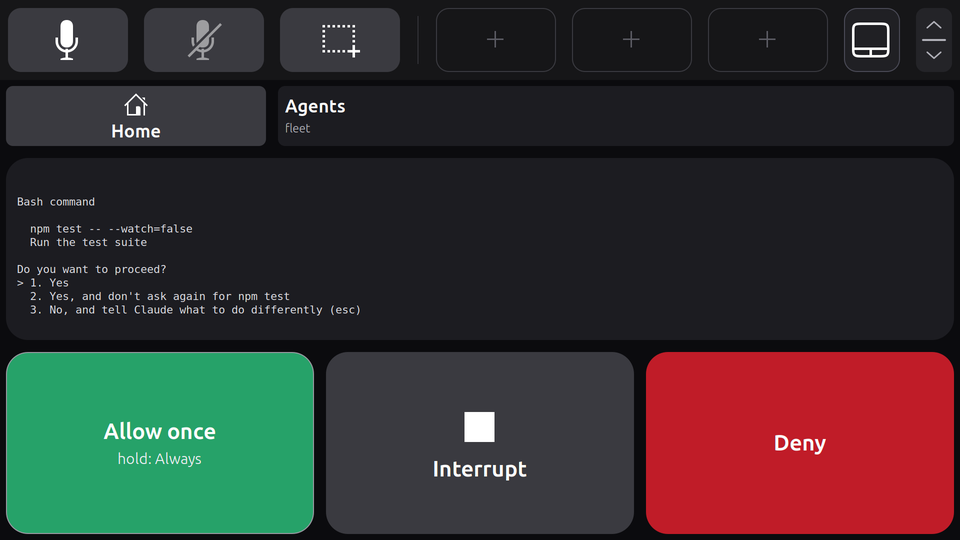
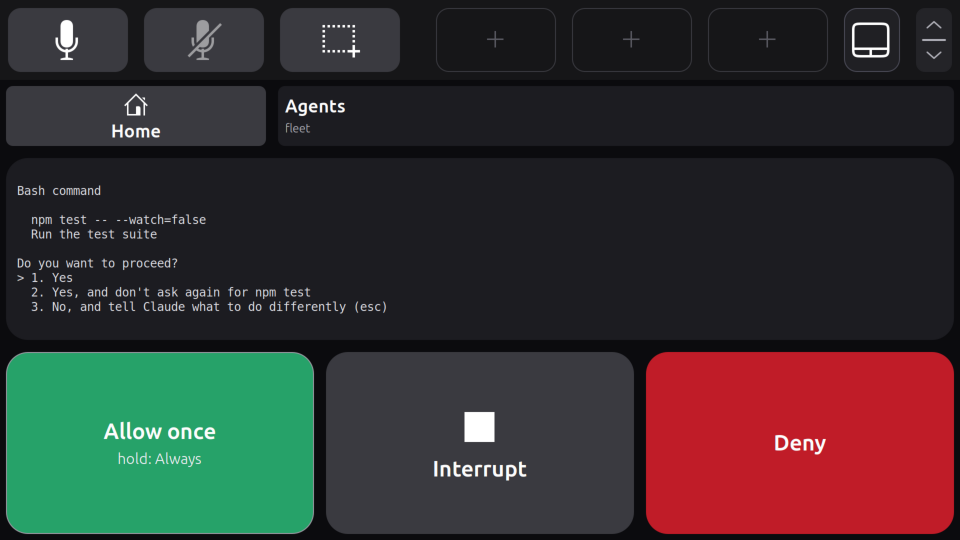
docs(touchbar): screenshots without the divider, items on the apps page
Rendered by the extension in a headless GNOME Shell 50.1 from the daemon's
own scenes: the bar no longer draws a line between two groups of spots,
and the apps page lists two [[apps]] items before the apps' pages.

For the PR description - the current user config's equivalent in the new
format. ~/.config/screenpad/touchbar.toml today holds Push to talk (hold
alt+k), the Agents and Calls tiles from screenpad-agents, then the
Bitwarden and Settings shortcuts (height 184). Its items are, in order:

    height = 184

    [[bar]]
    icon = "audio-input-microphone-symbolic"
    label = "Push to talk"
    mode = "hold"
    key = "alt+k"

    [[bar]]
    icon = "utilities-terminal-symbolic"
    label = "Agents"
    tile = "agents"

    [[bar]]
    icon = "dialog-question-symbolic"
    label = "Calls"
    tile = "calls"

    [[bar]]
    app = "bitwarden.desktop"

    [[bar]]
    app = "org.gnome.Settings.desktop"

The daemon (or 'screenpad-touchbar on') makes exactly this conversion
itself the first time the new version starts: it renames the blocks to
[[bar]] in place, keeps every comment, updates the default comments, and
writes the file only when it parses to the same bar (a copy of the live
file was checked to convert to these five items). To put Bitwarden and
Settings on the apps page instead, rename their two blocks [[apps]] (or
run 'screenpad-touchbar shortcut add bitwarden --apps' and
'screenpad-touchbar shortcut add org.gnome.Settings --apps', then remove
[…]

Changed region(s): [[0.0, 0.3259, 0.4062, 0.5926]]

diff --git a/docs/development.md b/docs/development.md
@@ -127,4 +127,4 @@ The app protocol's version and the client library (`test_app_protocol.py`, `test
 - the client against the daemon's own `AppServer`: the welcome, a tile, a question answered, an event; an app newer than the daemon failing with `ProtocolMismatch`, and one speaking version 1 welcome;
 - the client against the daemon's own `AppServer` in a thread (its version range patched for a bar too new or too old): `hello` and its `welcome`, a bar too new, too old and from before the version (and version 1 welcome there), the refusal through `receive()`, other refusals, no daemon and no `XDG_RUNTIME_DIR`, the bar going away; tiles and pages sent only when changed, a page sent again after `unpage` however it was sent, taps, long presses, answers and `cancel` coming back, errors after the welcome, a tile or page another app's; `Link` connecting when due, a hello that cannot be sent retried (its socket closed), a loss logged once and retried, everything shown again after a reconnect, a refusal logged once over retries, no daemon quiet; and the library importing nothing of the daemon.
 
-The screenshots in `docs/images/` were rendered by the extension in a headless GNOME Shell 50.1 (`gnome-shell --headless --virtual-monitor 1920x1080`) fed the scenes the daemon's own code publishes (a script importing `screenpad_touchbar`, with the virtual monitor's identity from `org.gnome.Mutter.DisplayConfig`), then cropped to the bar, or scaled to half for the pages (`touchbar-touchpad-page.png` with the shell's system bus a second `dbus-daemon` in the private runtime directory, given in `DBUS_SYSTEM_BUS_ADDRESS`, where a stand-in UPower display device gives the battery level and changes it with `PropertiesChanged`; the shell then warns in a banner that screen locking needs the GNOME display manager, so turn banners off on the private bus with `org.gnome.desktop.notifications show-banners false`; `touchbar-apps-page.png` and `touchbar-app-page.png` with two apps' pages given through the daemon's own `Apps`). Run it under `dbus-run-session` with its own `HOME` and `XDG_*` directories, so it touches nothing of your session. Keep `XDG_CURRENT_DESKTOP` as your session has it (`ubuntu:GNOME` on Ubuntu): Ubuntu's schema overrides, which give the icons and font the screenshots show, apply only to that desktop. **Set them, and unset `DBUS_SESSION_BUS_ADDRESS`, `DISPLAY` and `WAYLAND_DISPLAY`, before starting `dbus-run-session`**, not in the script it runs: services the private bus starts on demand (dconf, gvfs, the portals) get the environment `dbus-run-session` started with, so otherwise `gsettings set` and the shell's own settings writes land in your real `~/.config/dconf/user`. Comparing that file's checksum before and after a run shows it stayed untouched; `org.gnome.Shell.Screenshot` answers only some bus names, such as `org.gnome.SettingsDaemon.MediaKeys`, which a script can own on that private bus. Keep the runtime directory's path short: Unix socket paths are limited to 108 bytes. To check notifications there, send them with `org.freedesktop.Notifications.Notify` on that bus; GNOME 50 sends `ActionInvoked` and `NotificationClosed` only to the notification's sender, so subscribe from the connection that sent it rather than with `gdbus monitor`. `docs/images/touchbar-notification.png` (a real notification, mirrored by the extension to the daemon's socket, which the script serves) and `touchbar-ask.png` come from such a session. To check that the screensaver stays behind windows and the apps page covers them, open a window there (`zenity --info` with `WAYLAND_DISPLAY=wayland-0` in the private runtime directory). To check keeping the desktop off the ScreenPad, start the shell with two virtual monitors (`--virtual-monitor 1920x1080 --virtual-monitor 1920x515`), place them with `org.gnome.Mutter.DisplayConfig.ApplyMonitorsConfig` (method 1, temporary) on each side, give the scene the second one's identity, and drive the pointer with a Clutter virtual pointer's relative motion, as the touchpad's, through `org.gnome.Shell.Eval` (it needs `global.context.unsafe_mode`, which a throwaway extension in the private `HOME` can set). Mutter lets a pointer through a barrier only when it sits exactly on the line, which a warp straight onto it can do: start each push away from the edge. To check Fn+F6's ScreenPad on indicator, publish the daemon's scenes round the cycle and call `org.gnome.Shell.ShowOSD` with `{'icon': <'touchpad-disabled-symbolic'>}` as gsd-media-keys does (refused outside unsafe mode, like `Eval`), in both orders, then read the indicator's icon and label from `Main.osdWindowManager._osdWindows` through `Eval`. The private session's extensions go in `$XDG_DATA_HOME/gnome-shell/extensions`, and disabling one there adds it to `org.gnome.shell disabled-extensions`, which the next run must clear.
+The screenshots in `docs/images/` were rendered by the extension in a headless GNOME Shell 50.1 (`gnome-shell --headless --virtual-monitor 1920x1080`) fed the scenes the daemon's own code publishes (a script importing `screenpad_touchbar`, with the virtual monitor's identity from `org.gnome.Mutter.DisplayConfig`), then cropped to the bar, or scaled to half for the pages (`touchbar-touchpad-page.png` with the shell's system bus a second `dbus-daemon` in the private runtime directory, given in `DBUS_SYSTEM_BUS_ADDRESS`, where a stand-in UPower display device gives the battery level and changes it with `PropertiesChanged`; the shell then warns in a banner that screen locking needs the GNOME display manager, so turn banners off on the private bus with `org.gnome.desktop.notifications show-banners false`; `touchbar-apps-page.png` and `touchbar-app-page.png` with two `[[apps]]` items and two apps' pages given through the daemon's own `Apps`). Run it under `dbus-run-session` with its own `HOME` and `XDG_*` directories, so it touches nothing of your session. Keep `XDG_CURRENT_DESKTOP` as your session has it (`ubuntu:GNOME` on Ubuntu): Ubuntu's schema overrides, which give the icons and font the screenshots show, apply only to that desktop. **Set them, and unset `DBUS_SESSION_BUS_ADDRESS`, `DISPLAY` and `WAYLAND_DISPLAY`, before starting `dbus-run-session`**, not in the script it runs: services the private bus starts on demand (dconf, gvfs, the portals) get the environment `dbus-run-session` started with, so otherwise `gsettings set` and the shell's own settings writes land in your real `~/.config/dconf/user`. Comparing that file's checksum before and after a run shows it stayed untouched; `org.gnome.Shell.Screenshot` answers only some bus names, such as `org.gnome.SettingsDaemon.MediaKeys`, which a script can own on that private bus. Keep the runtime directory's path short: Unix socket paths are limited to 108 bytes. To check notifications there, send them with `org.freedesktop.Notifications.Notify` on that bus; GNOME 50 sends `ActionInvoked` and `NotificationClosed` only to the notification's sender, so subscribe from the connection that sent it rather than with `gdbus monitor`. `docs/images/touchbar-notification.png` (a real notification, mirrored by the extension to the daemon's socket, which the script serves) and `touchbar-ask.png` come from such a session. To check that the screensaver stays behind windows and the apps page covers them, open a window there (`zenity --info` with `WAYLAND_DISPLAY=wayland-0` in the private runtime directory). To check keeping the desktop off the ScreenPad, start the shell with two virtual monitors (`--virtual-monitor 1920x1080 --virtual-monitor 1920x515`), place them with `org.gnome.Mutter.DisplayConfig.ApplyMonitorsConfig` (method 1, temporary) on each side, give the scene the second one's identity, and drive the pointer with a Clutter virtual pointer's relative motion, as the touchpad's, through `org.gnome.Shell.Eval` (it needs `global.context.unsafe_mode`, which a throwaway extension in the private `HOME` can set). Mutter lets a pointer through a barrier only when it sits exactly on the line, which a warp straight onto it can do: start each push away from the edge. To check Fn+F6's ScreenPad on indicator, publish the daemon's scenes round the cycle and call `org.gnome.Shell.ShowOSD` with `{'icon': <'touchpad-disabled-symbolic'>}` as gsd-media-keys does (refused outside unsafe mode, like `Eval`), in both orders, then read the indicator's icon and label from `Main.osdWindowManager._osdWindows` through `Eval`. The private session's extensions go in `$XDG_DATA_HOME/gnome-shell/extensions`, and disabling one there adds it to `org.gnome.shell disabled-extensions`, which the next run must clear.

diff --git a/README.md b/README.md
@@ -31,7 +31,7 @@ What was checked on the hardware:
 What was not checked on the hardware:
 
 - **Display:** relighting after suspend and resume; reading the EDID over DDC (it failed with `Input/output error` on the tested unit); the debugfs path used on kernels without lockdown (covered by unit tests only); X11 sessions.
-- **Touch bar:** the latest bar changes (keeping windows below the bar, the new grip) and the Alt+K push-to-talk key were checked in a headless GNOME Shell 50.1, not yet on the panel. The same goes for the scene of tiles: in a headless GNOME Shell 50.1 the new extension draws today's bar pixel for pixel as the previous one did, and draws app tiles and questions; touching app tiles and questions on the panel is not yet checked. The elastic bar and notification cards were checked there too, with real notifications (buttons pressed, Do Not Disturb, dismiss, timeouts), not yet on the panel. The two pages (the black screensaver behind windows, the clock, the page button and the apps page over windows) were drawn there by the extension from the daemon's own scenes, and the battery level from a stand-in UPower (discharging, charging, full, no battery), not yet from the laptop's own; the swipe along the bar and the apps page's touch routing are tested without hardware, not yet on the panel, whose sample rate decides how reliable a 25 mm swipe on a 10 mm bar is. Apps' pages on the apps page (the home list, widgets pressed and held) were drawn there the same way; taps, long presses and the 0.3 s arming on them are tested without hardware only. The press click was checked there too: the extension calls GNOME's sound player with `click.wav` each time the daemon's count of presses goes up, and not otherwise; it has not yet been heard on the panel's speakers. Keeping the desktop off the ScreenPad was checked there with two virtual monitors in all four placements (the pointer stopped at the shared edge and let off the ScreenPad, windows sent back after a keyboard move, a mouse drag and maximized, the overview's ScreenPad view hidden, all undone when the extension is disabled), not yet on the panel. Fn+F6's cycle is tested without hardware, against a GNOME that flips the touchpad setting on each press as gsd-media-keys does, and its setting reader against a real `gsettings` in an isolated session; not yet with the key on the laptop, nor `screenpad light` and `dark` through the udev rule. Its ScreenPad on indicator was checked in a headless GNOME Shell 50.1 with GNOME's own `ShowOSD` calls and the daemon's scenes, in both orders (GNOME's touchpad-off indicator replaced, every other indicator unchanged, GNOME's restored when the extension is disabled); not yet with a real Fn+F6 press.
+- **Touch bar:** the latest bar changes (keeping windows below the bar, the new grip) and the Alt+K push-to-talk key were checked in a headless GNOME Shell 50.1, not yet on the panel. The same goes for the scene of tiles: in a headless GNOME Shell 50.1 the new extension draws today's bar pixel for pixel as the previous one did, and draws app tiles and questions; touching app tiles and questions on the panel is not yet checked. The elastic bar and notification cards were checked there too, with real notifications (buttons pressed, Do Not Disturb, dismiss, timeouts), not yet on the panel. The two pages (the black screensaver behind windows, the clock, the page button and the apps page over windows) were drawn there by the extension from the daemon's own scenes, and the battery level from a stand-in UPower (discharging, charging, full, no battery), not yet from the laptop's own; the swipe along the bar and the apps page's touch routing are tested without hardware, not yet on the panel, whose sample rate decides how reliable a 25 mm swipe on a 10 mm bar is. Apps' pages on the apps page (the home list, widgets pressed and held), and the config's items there (apps with their own icon and name) and on the bar, were drawn there the same way; taps, long presses and the 0.3 s arming on them are tested without hardware only. The press click was checked there too: the extension calls GNOME's sound player with `click.wav` each time the daemon's count of presses goes up, and not otherwise; it has not yet been heard on the panel's speakers. Keeping the desktop off the ScreenPad was checked there with two virtual monitors in all four placements (the pointer stopped at the shared edge and let off the ScreenPad, windows sent back after a keyboard move, a mouse drag and maximized, the overview's ScreenPad view hidden, all undone when the extension is disabled), not yet on the panel. Fn+F6's cycle is tested without hardware, against a GNOME that flips the touchpad setting on each press as gsd-media-keys does, and its setting reader against a real `gsettings` in an isolated session; not yet with the key on the laptop, nor `screenpad light` and `dark` through the udev rule. Its ScreenPad on indicator was checked in a headless GNOME Shell 50.1 with GNOME's own `ShowOSD` calls and the daemon's scenes, in both orders (GNOME's touchpad-off indicator replaced, every other indicator unchanged, GNOME's restored when the extension is disabled); not yet with a real Fn+F6 press.
 
 ## Quick start
 

diff --git a/docs/touchbar.md b/docs/touchbar.md
@@ -39,7 +39,7 @@ The panel has two pages. The page button in the bar shows the other one, where a
 - **The touchpad page** (home, the default). The bar, and below it the touchpad, exactly as above. Below the bar the extension draws black on the ScreenPad's monitor, with a faint clock in the bottom right corner and the battery level in the bottom left one: the percentage, followed by ⚡ while the laptop is on external power (charging, fully charged, or plugged in and held at a charge threshold). The level comes from UPower's display device, the one GNOME's own power indicator reads, and shows only while it reports a battery. It is drawn black: the panel's brightness is fixed, so this saves no backlight power, but a still, black picture is redrawn only once a minute for the clock, and for the battery only when the percentage shown or the power changes. It lies below windows, though none stays on the ScreenPad ([keeping the desktop off](#keeping-the-desktop-off-the-screenpad)). `[screensaver]` in the [config](configuration.md#pages) turns the clock off; the battery level has no setting.
 - **The apps page.** Below the bar, a surface for apps, drawn over the ScreenPad's windows. Every touch that starts there belongs to the surface and never reaches the pointer, the clicks or GNOME's gestures. It opens on the home page, a list of the config's `[[apps]]` items ([items](configuration.md#items): apps, keys, commands, apps' tiles and pages, which do what they do on the bar) and then of the pages apps give it that no item places ("No apps here yet" while it has neither); tap a page to open it, and **Home** in its header to come back. The list has two rows of four, and more rows when it holds more than eight. An app shows its icon and the name from its desktop file. A hold key there is down while the finger is, as on the bar; an app is not removed by holding it on the apps page (the config, or `screenpad-touchbar shortcut remove N --apps`, does that). An app's page is a grid of large widgets: a tap is a lift on the widget, a long press (0.8 s, on widgets that take one) gets a white edge before you lift, and sliding away cancels. A touch that starts within 0.3 s of a widget appearing or changing does nothing, so a tap already on its way when the page changed lands on nothing. The page shown stays chosen while you are on the touchpad. Apps give their pages through the [app API](app-api.md#pages-on-the-apps-page); the agent app, [screenpad-agents](https://github.com/mmarsot/screenpad-agents), is one. The bar, its items, the page button and cards work the same on both pages.
 
-![The touchpad page: the bar over a black screensaver with a faint battery level and clock](images/touchbar-touchpad-page.png) ![The apps page's home: the bar over the list of apps' pages, with how to go back in the header](images/touchbar-apps-page.png)
+![The touchpad page: the bar over a black screensaver with a faint battery level and clock](images/touchbar-touchpad-page.png) ![The apps page's home: the bar over the list, the Bitwarden and Settings apps from the config's [[apps]] items, then the Agents and Media pages two apps give, with how to go back in the header](images/touchbar-apps-page.png)
 
 **Turning the page.**
 
